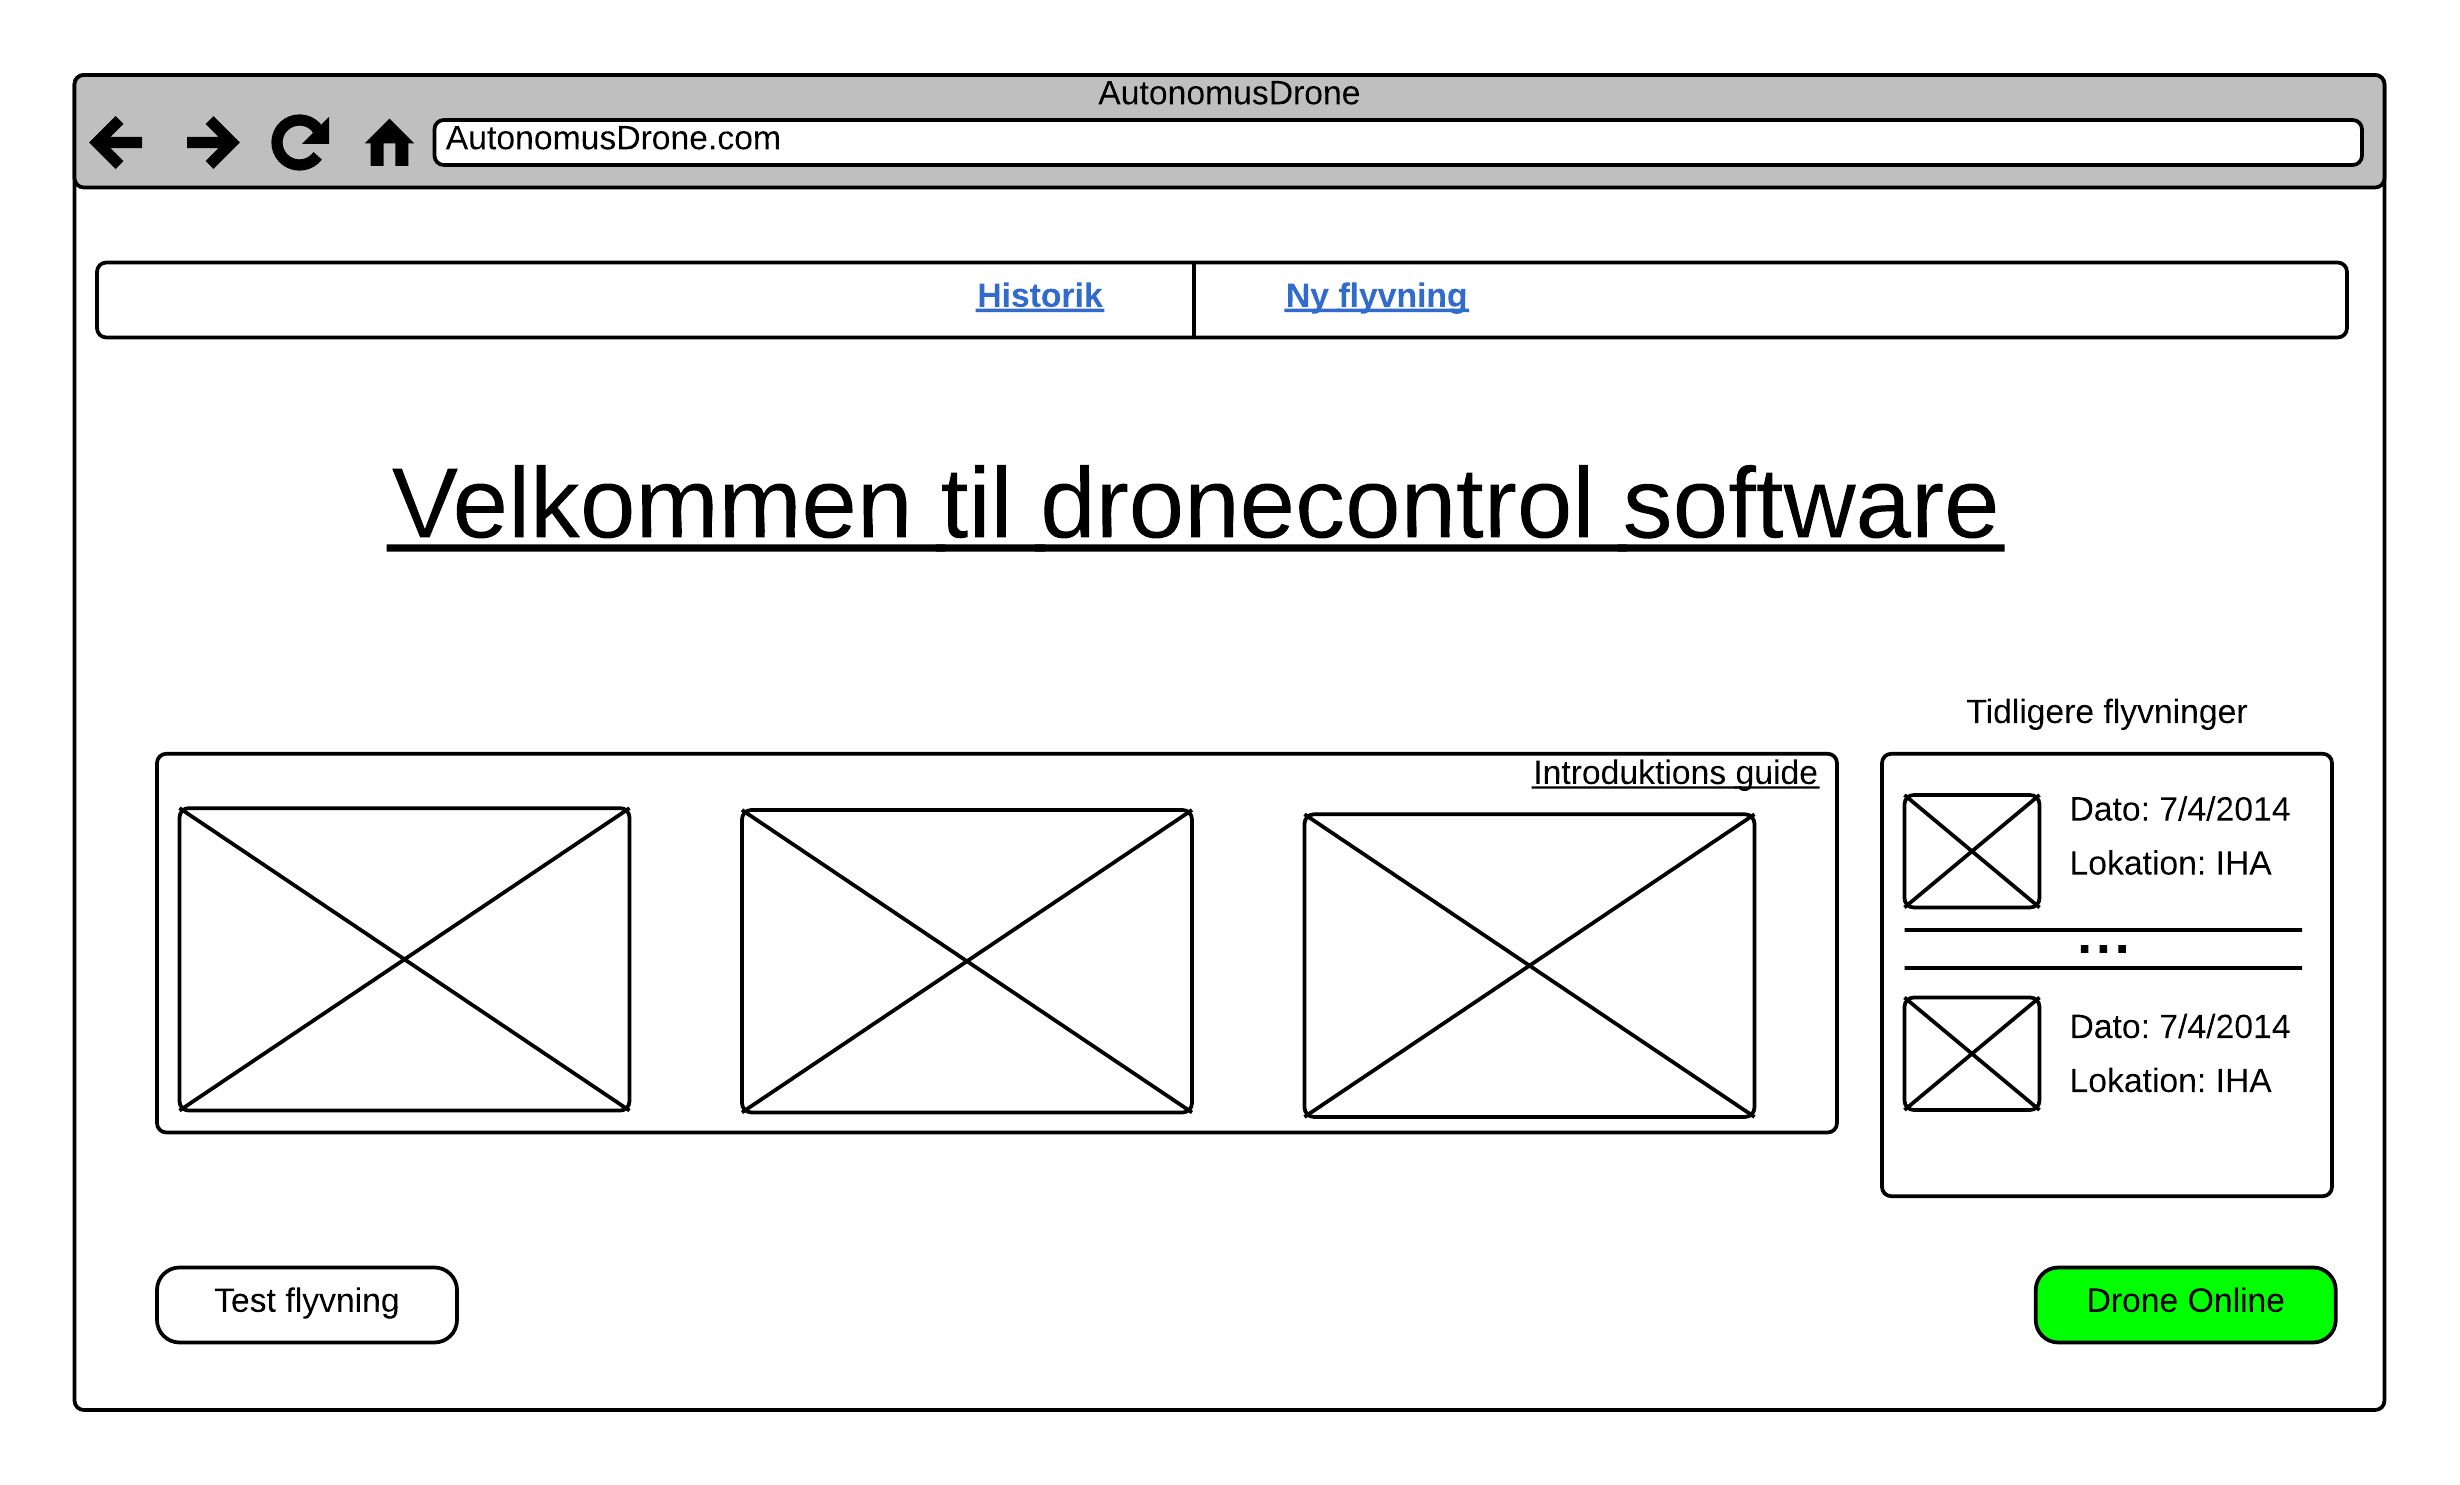
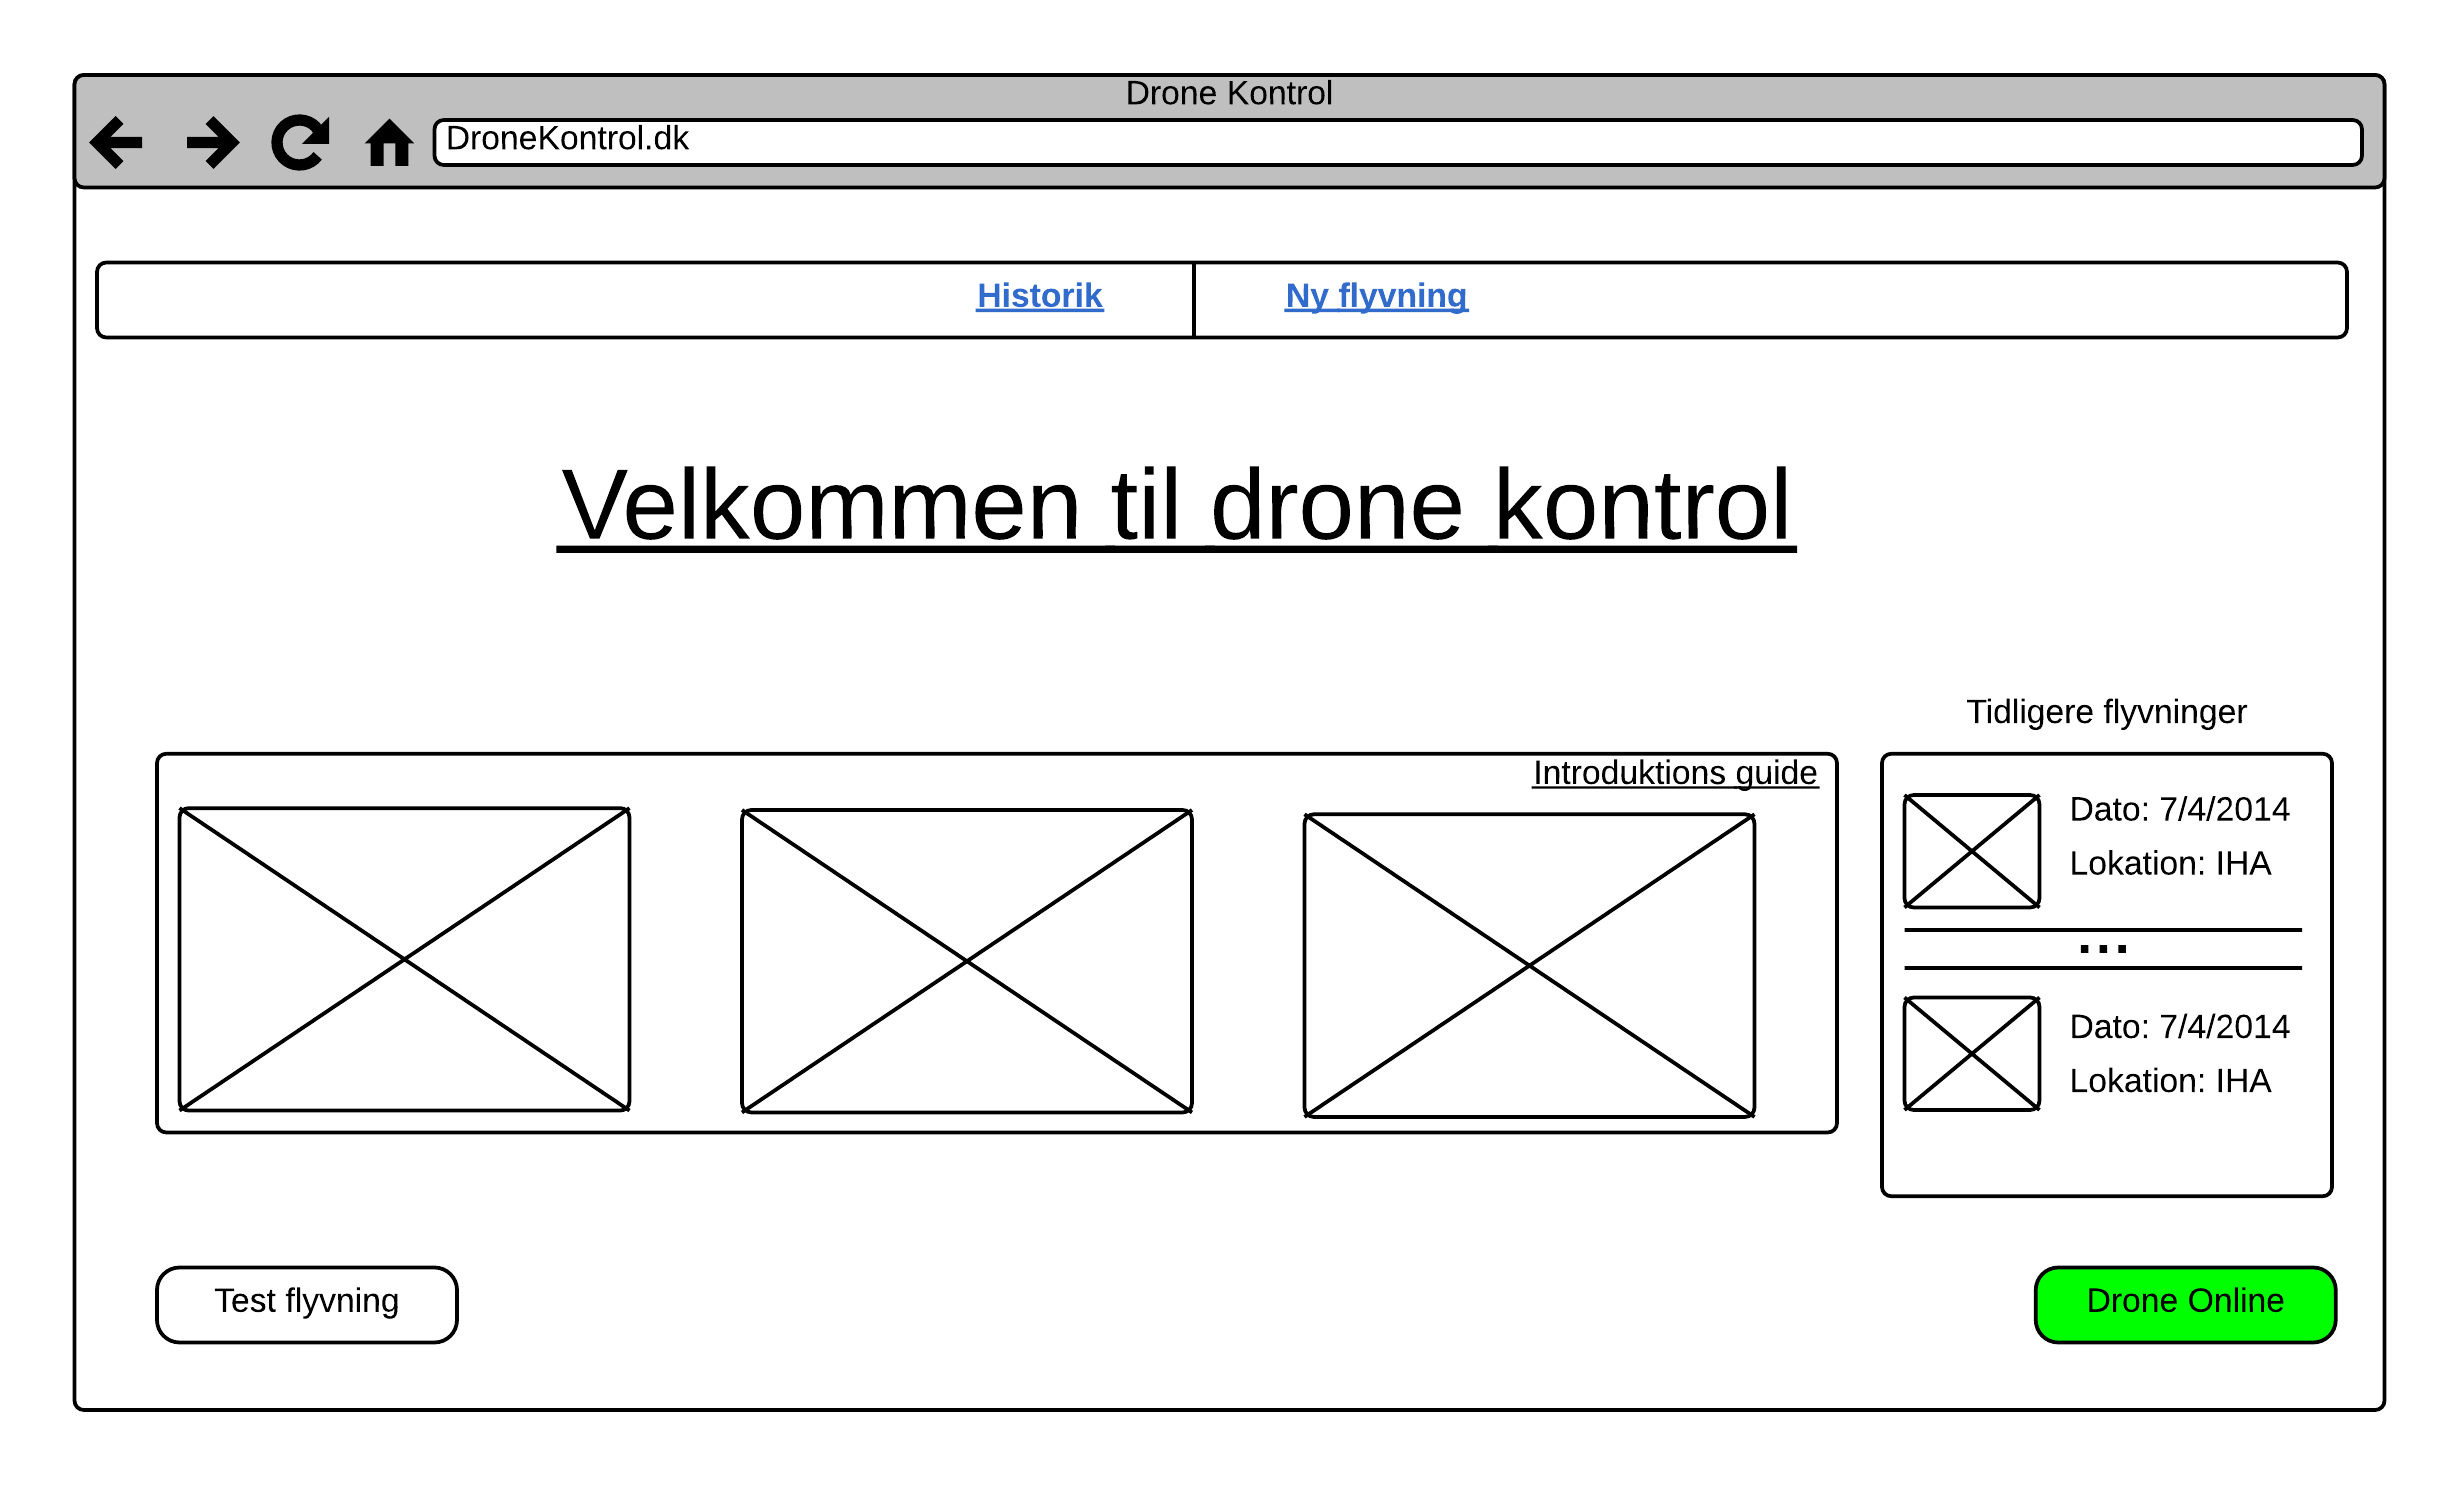
Ændrede overskrift på mockups

Changed region(s): [[0.1545, 0.3098, 0.8341, 0.3717], [0.1854, 0.062, 0.3089, 0.1239], [0.4634, 0.031, 0.5561, 0.0929]]

diff --git a/5.Transition/Dokumentation/Billag/frontpage.tex b/5.Transition/Dokumentation/Billag/frontpage.tex
@@ -1,0 +1,45 @@
+\thispagestyle{empty}
+
+\begin{center}
+\textsl{Ingeniørhøjskolen Aarhus Universitet 2014 } \\ \vspace{0.5cm}
+
+\phantom{hul}
+\phantom{hul}
+\phantom{hul}
+\phantom{hul}
+\phantom{hul}
+\phantom{hul}
+\phantom{hul}
+
+\textsl{\HUGE Billags Dokument} \\ \vspace{0cm}
+\rule{15cm}{0.5mm}  \\ \vspace{0.5cm}
+\textsl{\LARGE Autonom overvågnings drone } \\ \vspace{0.5cm}
+
+\vspace{2.5cm}
+
+\begin{table}[h]
+\begin{tabular}{l|l}
+\hline
+
+ 						&	Rasmus Lydiksen 				\\
+Udarbejdet af \hspace{5cm} &	Anders Opstrup  \hspace{3.8cm}	\\
+ 						&  	Kevin Grooters					\\ \hline
+
+Vejleder				&	Torben Gregersen 				\\ \hline
+Projektnummer			&	14123 			 				\\ \hline
+Antal sider				&	\pageref{LastPage} 				\\ \hline
+\end{tabular}
+\end{table}
+
+\vspace{8cm}
+
+\begin{table}[H]
+	\centering
+		\begin{tabular}{c c c}
+			\underline{\phantom{mmmmmmmmmmmmmm}} & \underline{\phantom{mmmmmmmmmmmmmm}} & \underline{\phantom{mmmmmmmmmmmmmm}} \\
+			Rasmus Lydiksen			& Anders Opstrup 		& Kevin Grooters 			\\
+			11647					& 11726					& 11655\\
+			&&\\												
+		\end{tabular}
+\end{table}
+\end{center}

diff --git a/5.Transition/Dokumentation/Billag/Fejlmode_protocol.tex b/5.Transition/Dokumentation/Billag/Fejlmode_protocol.tex
@@ -1,0 +1,22 @@
+\chapter{Fejlmode protokol}
+
+I visse situationer kan dronen gå i fejlmode. Denne protokol beskriver forløbet step-by-step.
+
+\begin{table}[H]
+\begin{tabular}{| p{3cm}| p{11.5cm}|}
+\hline
+
+Fejlmode \#1	 							& Ingen GPS signal. \\\hline
+Beskrivelse 									& Dronen går i dette mode hvis den ikke kan modtaget noget GPS signal. \\\hline
+Forløb											& \begin{itemize}
+															\item Dronen er ude på ruten.
+															\item Dronen befinder sig i et område uden GPS dækning.
+															\item Flyveretning roteres 180\degree.
+															\item GPS signal opfanges.
+															\item Dronen springer waypoint over.
+															\item Markeres fejl ved waypoint på webapplikationen .
+														\end{itemize} \\\hline 
+\end{tabular}
+\caption{Fejlmode \#1 - Ingen GPS signal}
+\label{tab:fejlmode1}
+\end{table}

diff --git a/5.Transition/Dokumentation/Billag/Billag.tex b/5.Transition/Dokumentation/Billag/Billag.tex
@@ -5,17 +5,13 @@
 
 \begin{document}												% Starter
 \frontmatter													% Forindhold - nummereres med romertal
-\include{Kapitler/Forside/frontpage}
+\include{frontpage}
 
 %%%% Indholdsfortegnelse (TOC) %%%%
 \tableofcontents*												%Indholdsfortegnelsen (kaldet ToC) 
 
 \mainmatter														% Hovedindhold - nummereres fra side 1
-\include{Kapitler/Intro/Intro_side}
-\include{Kapitler/Beskrivelse/Systembeskrivelse}
-\include{Kapitler/Beskrivelse/Brugscenarie}
-\include{Kapitler/Kravspecifikation/_Kravspecifikation}
-\include{Kapitler/Beskrivelse/grenseflader}
+\include{Fejlmode_protocol}
 
 %%%% Kilder %%%%
 \begingroup

diff --git a/5.Transition/Dokumentation/Billag/preamble_ida14.tex b/5.Transition/Dokumentation/Billag/preamble_ida14.tex
@@ -8,7 +8,8 @@
 \usepackage[T1]{fontenc}					% Output-indkodning af tegnsaet (T1)
 \usepackage{ragged2e,anyfontsize}			% Justering af elementer
 \usepackage{fixltx2e}						% Retter forskellige fejl i LaTeX-kernen
-																			
+\usepackage{gensymb}
+																	
 % ¤¤ Figurer og tabeller (floats) ¤¤ %
 \usepackage{graphicx} 						% Haandtering af eksterne billeder (JPG, PNG, EPS, PDF)
 
